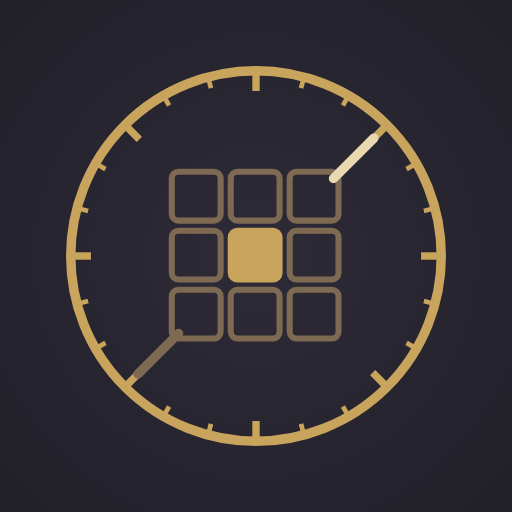
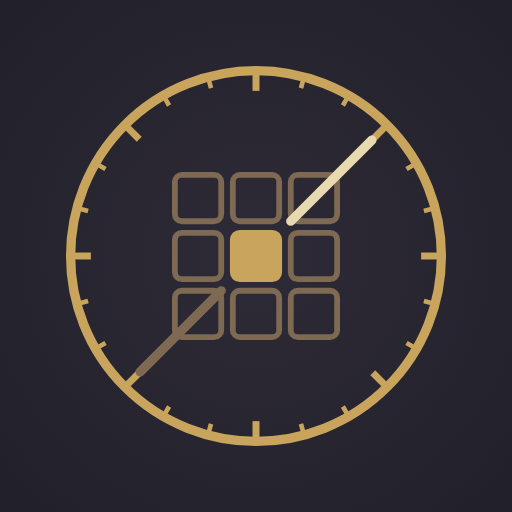
圖示指針恢復原稿長度與比例
Claude-Session: https://claude.ai/code/session_01Cu1dERkBGdTvpQijoFoMV2

Changed region(s): [[0.3125, 0.3125, 0.6875, 0.6875], [0.7188, 0.25, 0.75, 0.2812], [0.25, 0.7188, 0.2812, 0.75]]

diff --git a/branding/make_icon.py b/branding/make_icon.py
@@ -1,32 +1,26 @@
 """產生奇門羅盤圖示 SVG（九宮羅盤）。所有元素以 (54,54) 為中心對稱，確保完全置中。"""
-import math
 GOLD, BRIGHT, PALE, BROWN = "#C9A45C", "#D8B56A", "#E8D9B0", "#7E6A52"
 H = '<svg xmlns="http://www.w3.org/2000/svg" viewBox="{vb}">'
 BG = ('<defs><radialGradient id="g" cx="50%" cy="50%" r="70%"><stop offset="0" stop-color="#2E2B38"/>'
       '<stop offset="1" stop-color="#1C1B22"/></radialGradient></defs><rect width="108" height="108" fill="url(#g)"/>')
 
 def art(mono=False):
+    """原稿座標（環半徑 32、九宮 40–68），整體以中心縮 0.86 放進安全區。"""
     c = (lambda x: "#FFFFFF") if mono else (lambda x: x)
-    s = [f'<circle cx="54" cy="54" r="27.5" fill="none" stroke="{c(GOLD)}" stroke-width="1.4"/>']
+    s = [f'<circle cx="54" cy="54" r="32" fill="none" stroke="{c(GOLD)}" stroke-width="1.6"/>']
     for i in range(24):
         major = i % 3 == 0
-        r0, r1 = 27.5, 27.5 - (3 if major else 1.7)
-        a = math.radians(i * 15)
-        x0, y0 = 54 + r0 * math.sin(a), 54 - r0 * math.cos(a)
-        x1, y1 = 54 + r1 * math.sin(a), 54 - r1 * math.cos(a)
-        s.append(f'<line x1="{x0:.2f}" y1="{y0:.2f}" x2="{x1:.2f}" y2="{y1:.2f}" stroke="{c(GOLD)}" '
-                 f'stroke-width="{1.1 if major else .7}"/>')
+        s.append(f'<line x1="54" y1="22" x2="54" y2="{25.5 if major else 24}" stroke="{c(GOLD)}" '
+                 f'stroke-width="{1.2 if major else .8}" transform="rotate({i*15} 54 54)"/>')
     for r in range(3):
         for k in range(3):
             mid = r == k == 1
-            x, y = 54 - 12.5 + k * 8.75, 54 - 12.5 + r * 8.75  # 三格寬 25，中心 54
-            fill = c(GOLD) if mid else "none"
-            s.append(f'<rect x="{x:.2f}" y="{y:.2f}" width="7.25" height="7.25" rx="1" fill="{fill}" '
-                     f'stroke="{c(GOLD) if mid else c(BROWN)}" stroke-width=".9"/>')
-    d = 11.2  # 指針：兩端對中心點對稱
-    s.append(f'<line x1="{54+d+.3:.2f}" y1="{54-d-.3:.2f}" x2="{54+d+6+.3:.2f}" y2="{54-d-6-.3:.2f}" stroke="{c(PALE)}" stroke-width="1.4" stroke-linecap="round"/>')
-    s.append(f'<line x1="{54-d-.3:.2f}" y1="{54+d+.3:.2f}" x2="{54-d-6-.3:.2f}" y2="{54+d+6+.3:.2f}" stroke="{c(BROWN)}" stroke-width="1.4" stroke-linecap="round"/>')
-    return "".join(s)
+            s.append(f'<rect x="{40+k*10}" y="{40+r*10}" width="8" height="8" rx="1.2" '
+                     f'fill="{c(GOLD) if mid else "none"}" stroke="{c(GOLD) if mid else c(BROWN)}" stroke-width="1"/>')
+    # 指針：從環內延伸到九宮角格，兩端對中心點對稱
+    s.append(f'<path d="M74 34 L60 48" stroke="{c(PALE)}" stroke-width="1.6" stroke-linecap="round"/>')
+    s.append(f'<path d="M34 74 L48 60" stroke="{c(BROWN)}" stroke-width="1.6" stroke-linecap="round"/>')
+    return '<g transform="translate(54 54) scale(.86) translate(-54 -54)">' + "".join(s) + "</g>"
 
 files = {
     "icon_foreground.svg": H.format(vb="0 0 108 108") + art() + "</svg>",
